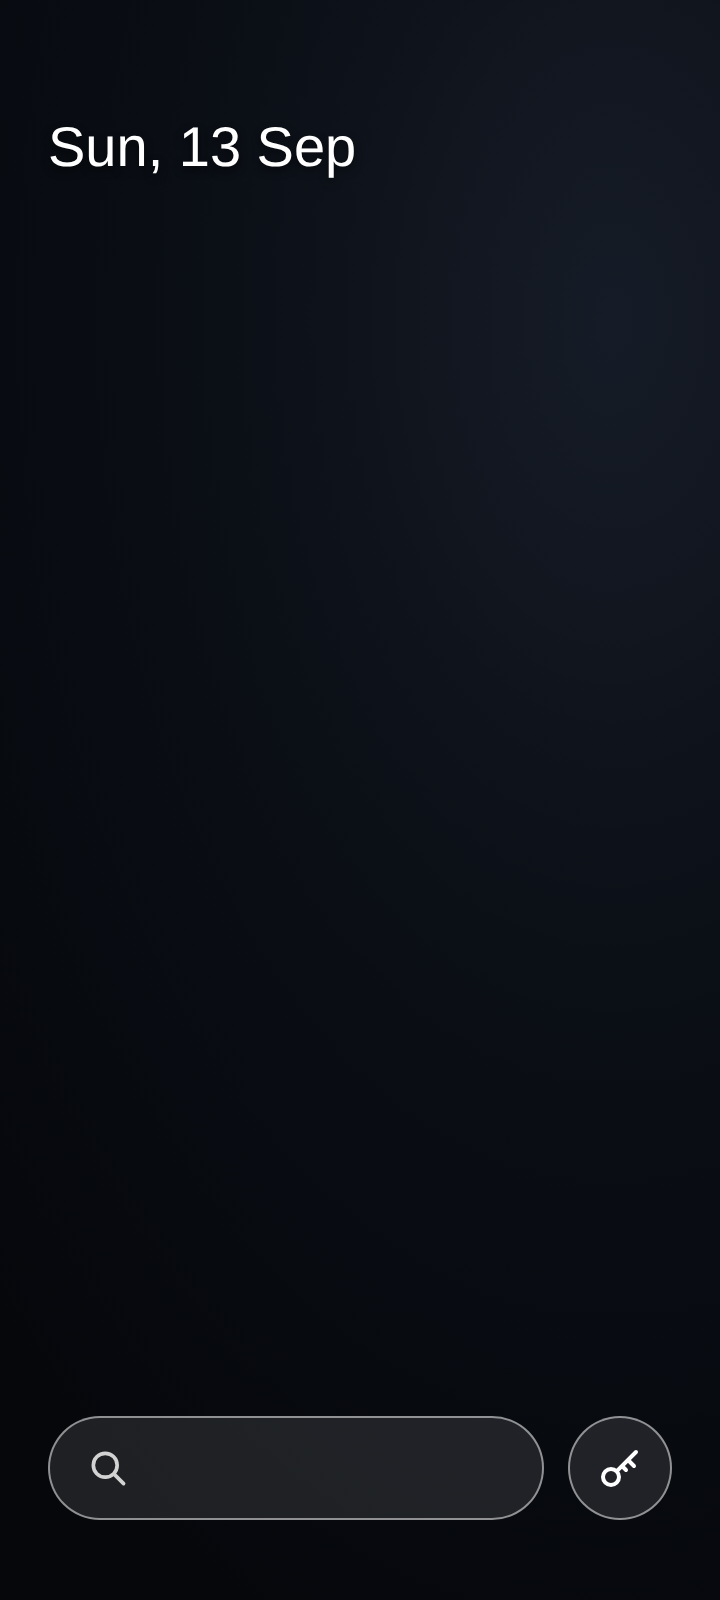
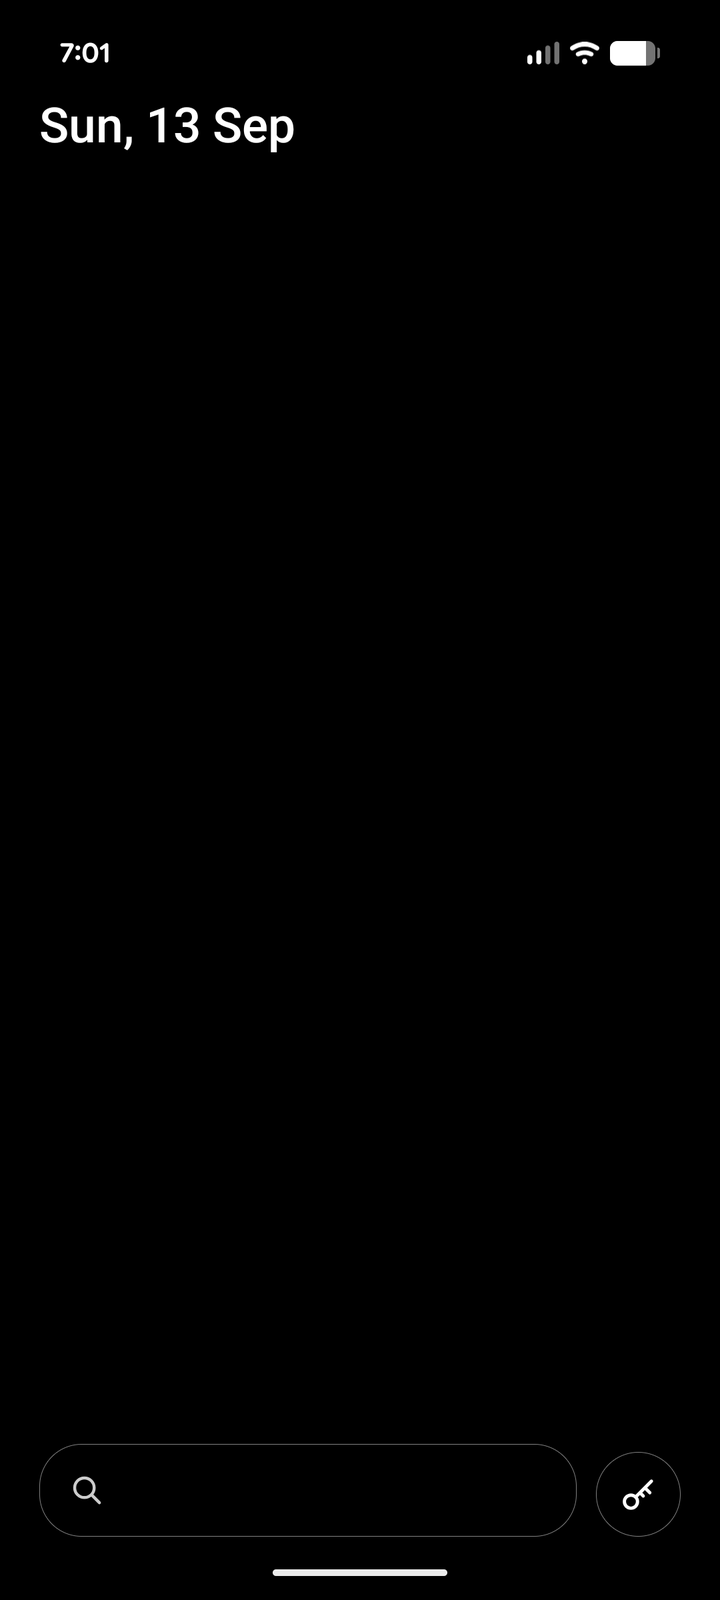
Use device captures for the home and settings screenshots (#17)
All three README screenshots now come from a phone, in the same 720x1600
frame. The sentence about how the screenshots were made is gone.

Claude-Session: https://claude.ai/code/session_01JwfvaiWhUT5RTYB9XaJDG5

diff --git a/README.md b/README.md
@@ -14,10 +14,6 @@ settings. Full details in the **[user guide](GUIDE.md)**.
 | :---: | :---: | :---: |
 | ![Home screen: the date at the top, and at the bottom a search bar beside a round key glyph for the password manager](docs/screenshots/home.png) | ![App drawer: apps listed in colored groups with a search field on top; emphasized apps are bold and first while the rest of their group folds into one faded line](docs/screenshots/drawer.png) | ![Settings: Blauncher, Smart ordering, and Home screen cards](docs/screenshots/settings.png) |
 
-The Home and Settings screens are renders built from the app's layouts,
-strings, and colors; the App drawer is a device capture, status bar and
-navigation handle included.
-
 ## What it does
 
 - **Near-empty home.** The date at the top, and along the bottom a search bar
